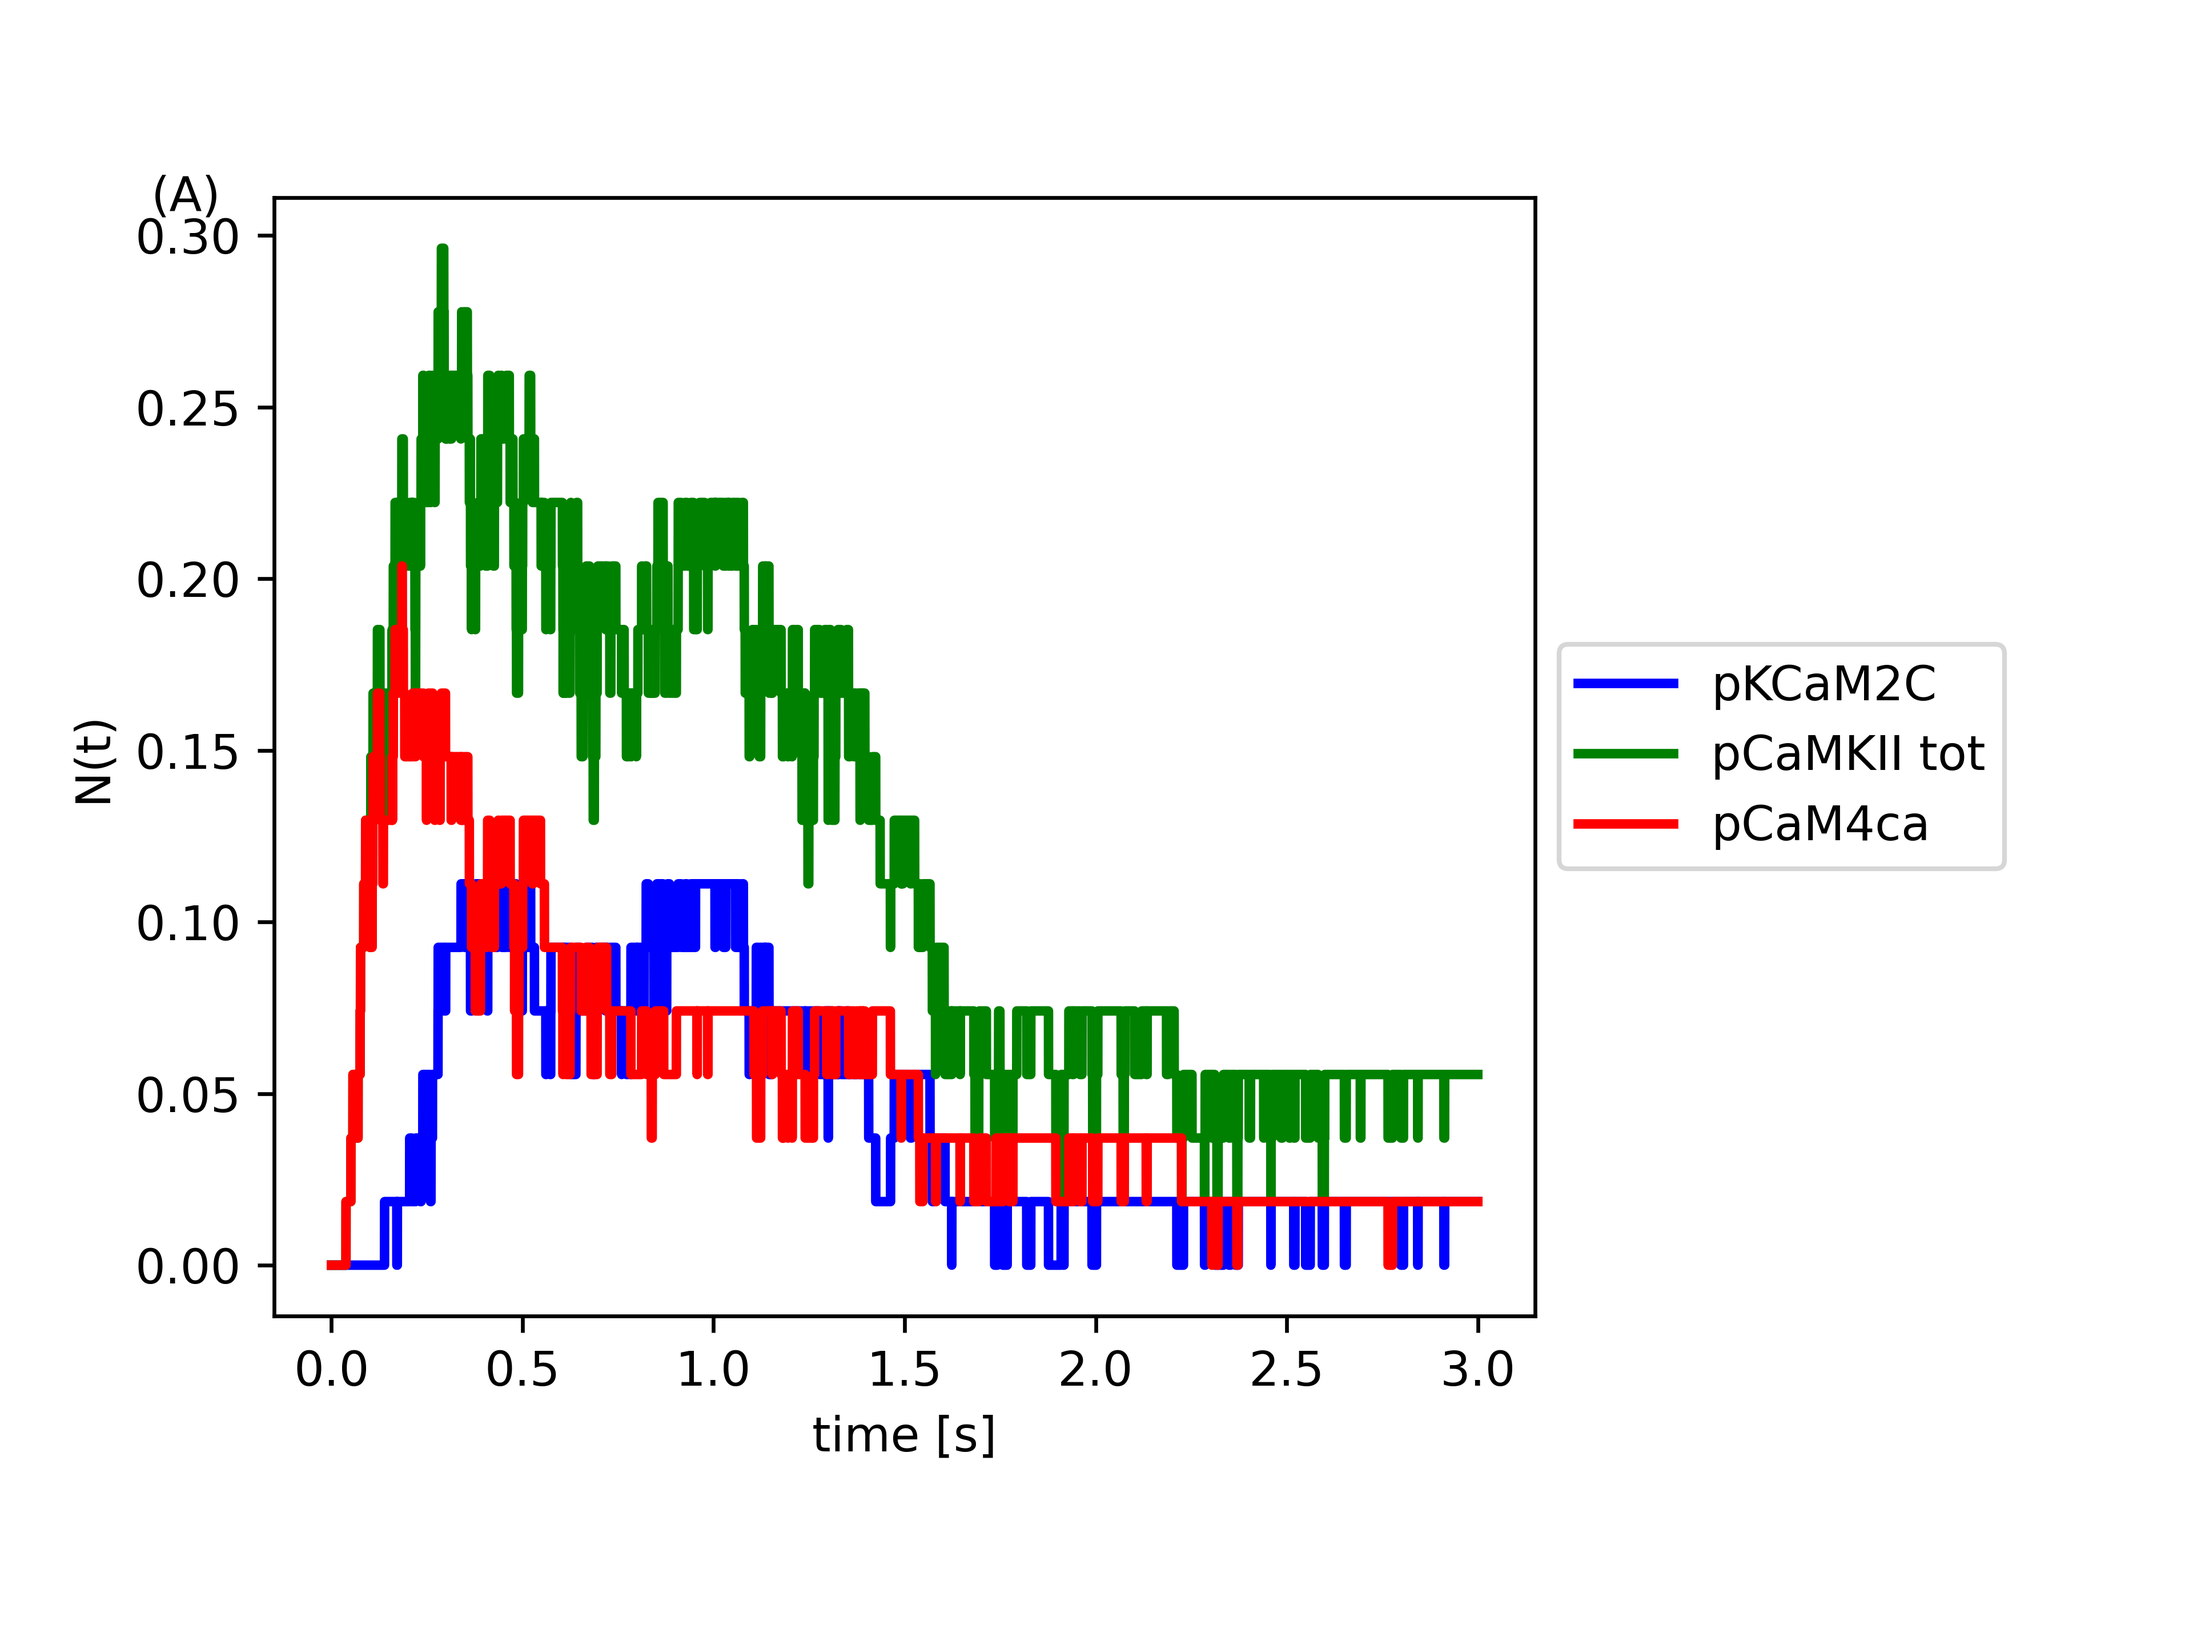
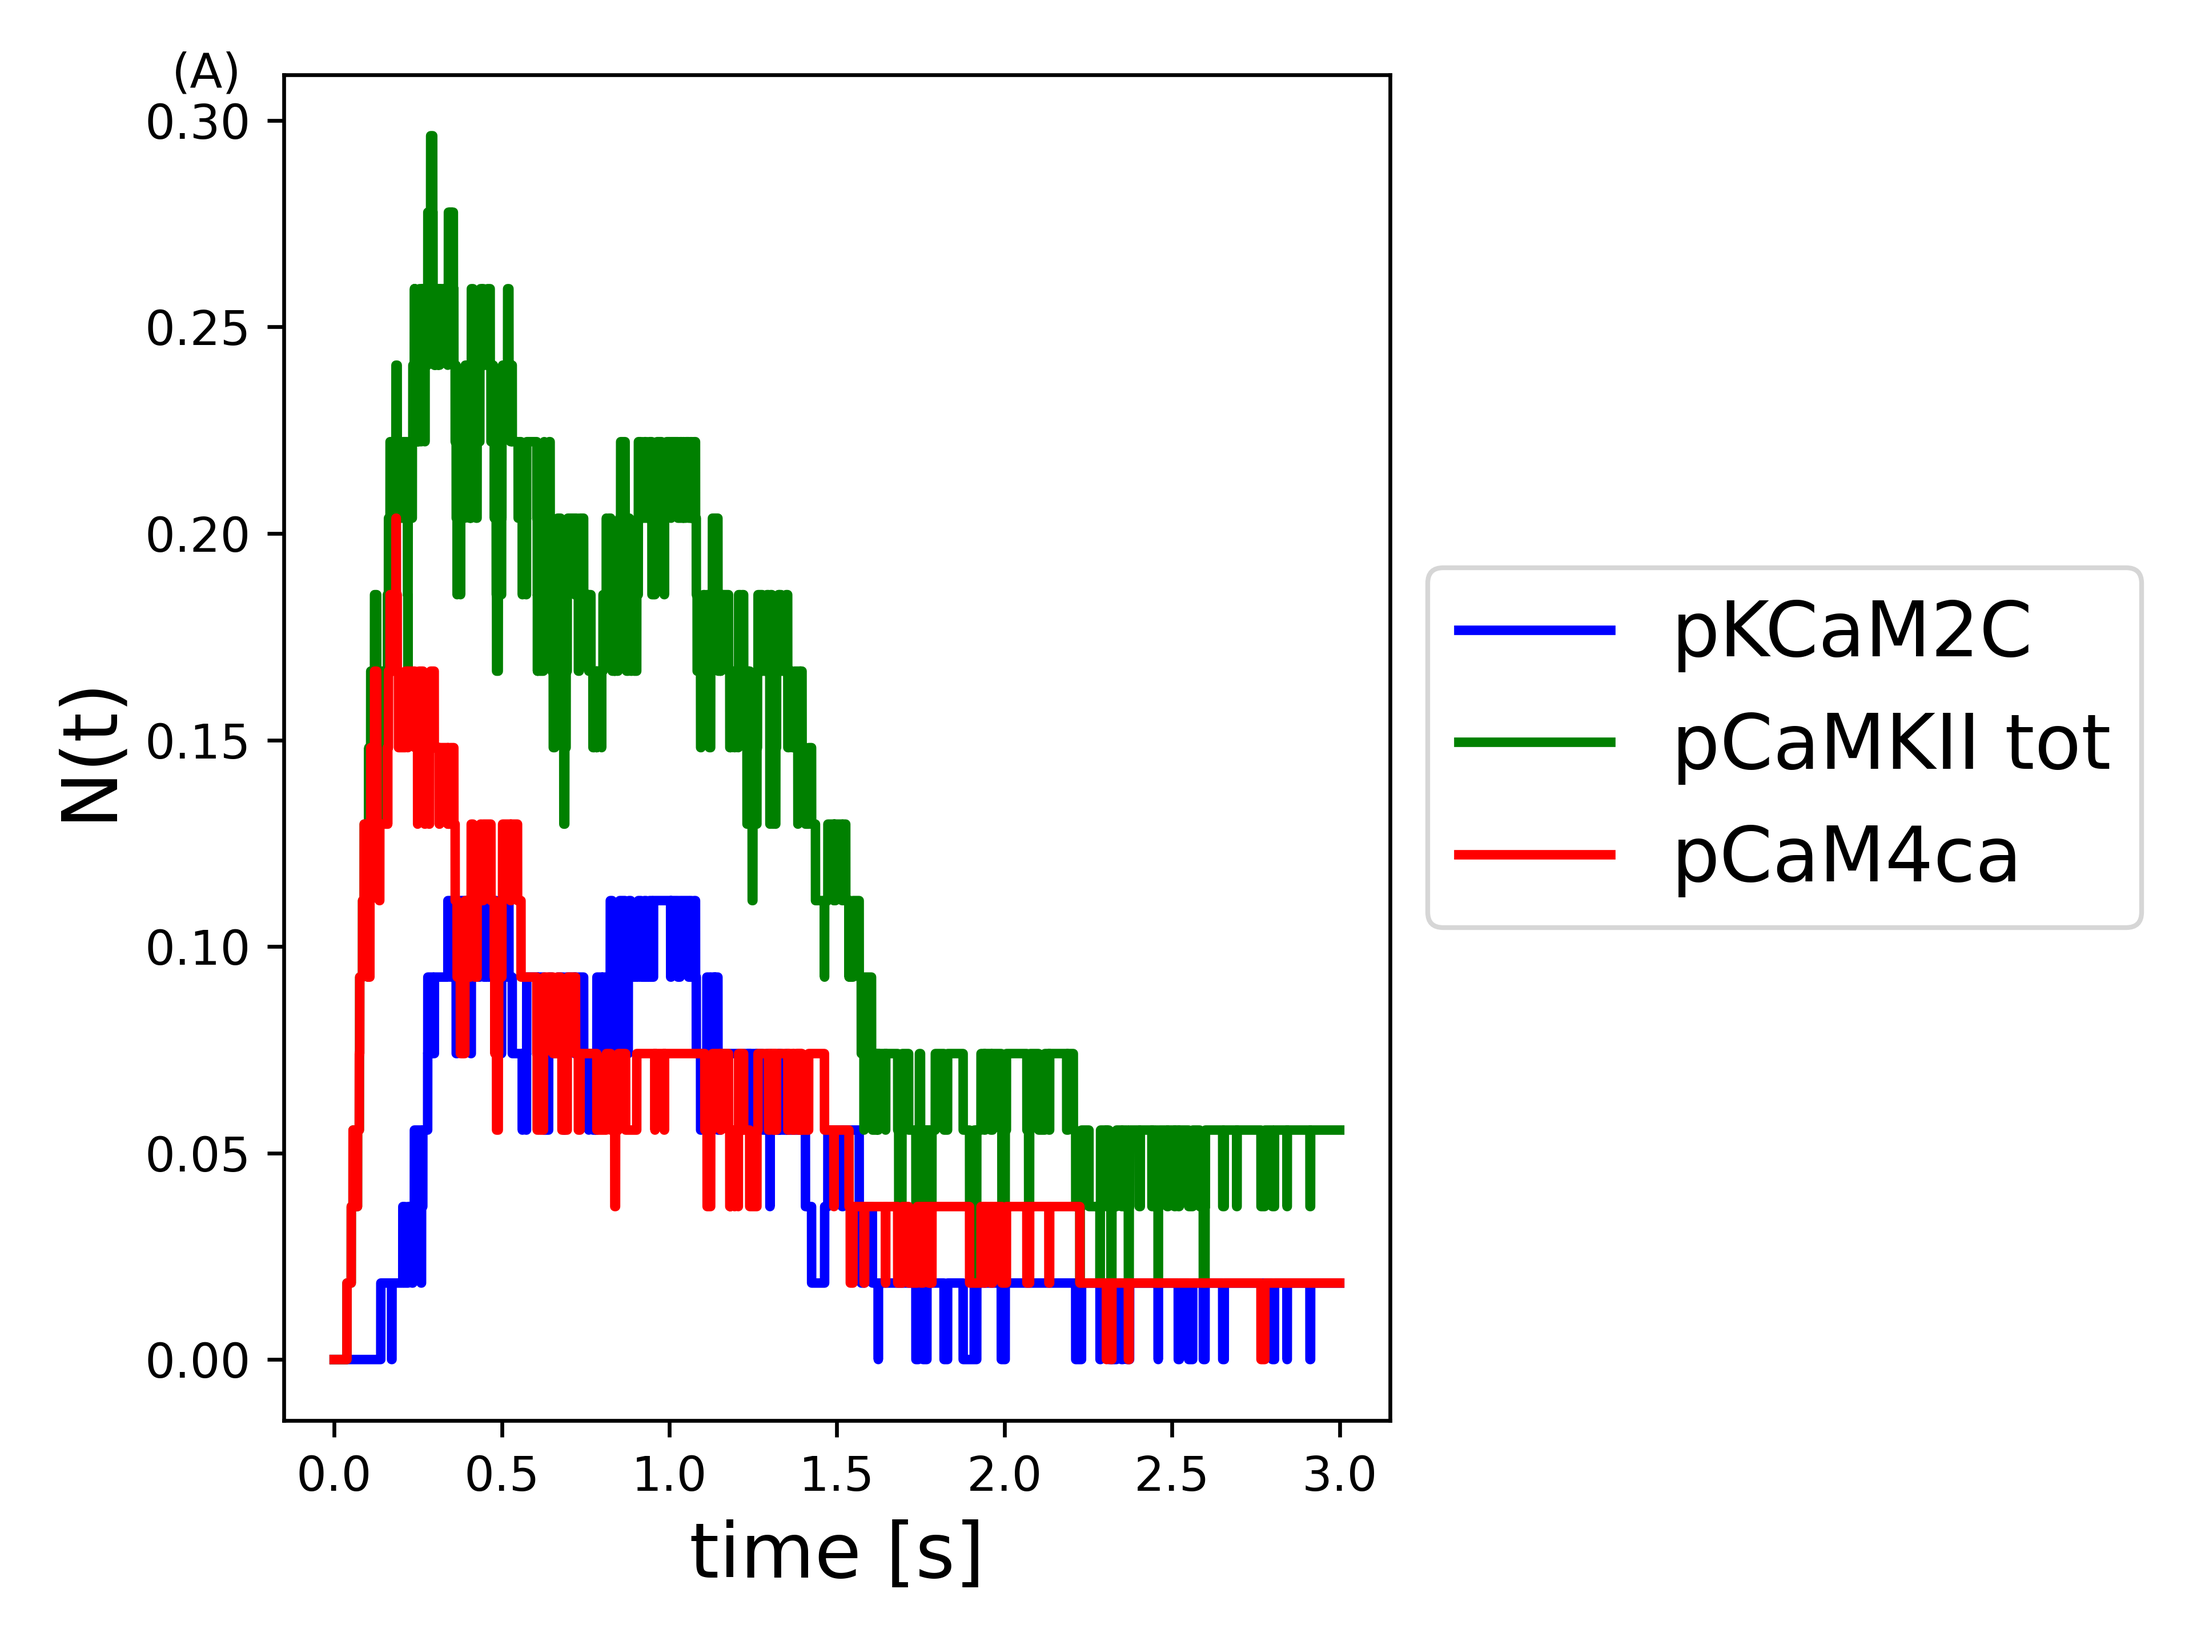
Added Tkinter GUI with callbacks to edit matplotlib stylesheets; added settings_gui.py and settings.sh shell stub; improved default styles including 600dpi resolution (default is 100dpi), larger font, and dynamic sizing of image borders so that no text is cut off

diff --git a/_plotting/scripts/plot_relative_performance.py b/_plotting/scripts/plot_relative_performance.py
@@ -36,6 +36,8 @@ import argparse
 import textwrap
 from shared import *
 
+plt.style.use(['../../_plotting/styles/plot_relative_performance.mplstyle','../../_plotting/styles/master.mplstyle'])
+
 def create_argparse():
     parser = argparse.ArgumentParser(description='MCell4 Runner')
     parser.add_argument('-d', '--data', type=str, help='cvs file with benchmark results')

diff --git a/_plotting/scripts/hybrid_get_peaks.py b/_plotting/scripts/hybrid_get_peaks.py
@@ -7,6 +7,7 @@ from scipy.signal import find_peaks
 from scipy.signal import butter, lfilter, freqz
 import matplotlib.pyplot as plt
 
+plt.style.use(['../../_plotting/styles/hybrid_get_peaks.mplstyle','../../_plotting/styles/master.mplstyle'])
 
 def butter_lowpass(cutoff, fs, order=5):
     nyq = 0.5 * fs

diff --git a/_plotting/scripts/plot_averages_plot_per_observable.py b/_plotting/scripts/plot_averages_plot_per_observable.py
@@ -36,6 +36,8 @@ import argparse
 from load_data import *
 from shared import *
 
+plt.style.use(['../../_plotting/styles/plot_averages_plot_per_observable.mplstyle','../../_plotting/styles/master.mplstyle'])
+
 class Options:
     def __init__(self):
         self.mcell3_dir = None

diff --git a/_plotting/scripts/plot_trajectories_single_plot.py b/_plotting/scripts/plot_trajectories_single_plot.py
@@ -36,6 +36,8 @@ import argparse
 from load_data import *
 from shared import *
 
+plt.style.use(['../../_plotting/styles/plot_trajectories_single_plot.mplstyle','../../_plotting/styles/master.mplstyle'])
+
 class Options:
     def __init__(self):
         self.mcell3_dir = None

diff --git a/_plotting/scripts/load_data.py b/_plotting/scripts/load_data.py
@@ -33,6 +33,8 @@ import matplotlib.pyplot as plt
 import os
 import sys
 import argparse
+import warnings
+warnings.simplefilter(action='ignore', category=pd.errors.PerformanceWarning) #suppress performance warnings
 
 def get_mcell_observables_counts(dir):
     counts = {}

diff --git a/_plotting/scripts/plot_hybrid.py b/_plotting/scripts/plot_hybrid.py
@@ -10,6 +10,8 @@ from hybrid_get_peaks import prepare_data
 
 from shared import *
 
+plt.style.use(['../../_plotting/styles/plot_hybrid.mplstyle','../../_plotting/styles/master.mplstyle'])
+
 INDEX_NAME_OFFSET=0.02
 
 particle_D10 = {

diff --git a/_plotting/scripts/shared.py b/_plotting/scripts/shared.py
@@ -2,6 +2,8 @@
 import matplotlib.pyplot as plt
 from matplotlib.lines import Line2D
 
+plt.style.use('../../_plotting/styles/master.mplstyle')
+
 X_LABEL_TIME_UNIT_S = "time [s]"
 Y_LABEL_N_PARAM_TIME = "N(t)"
 
